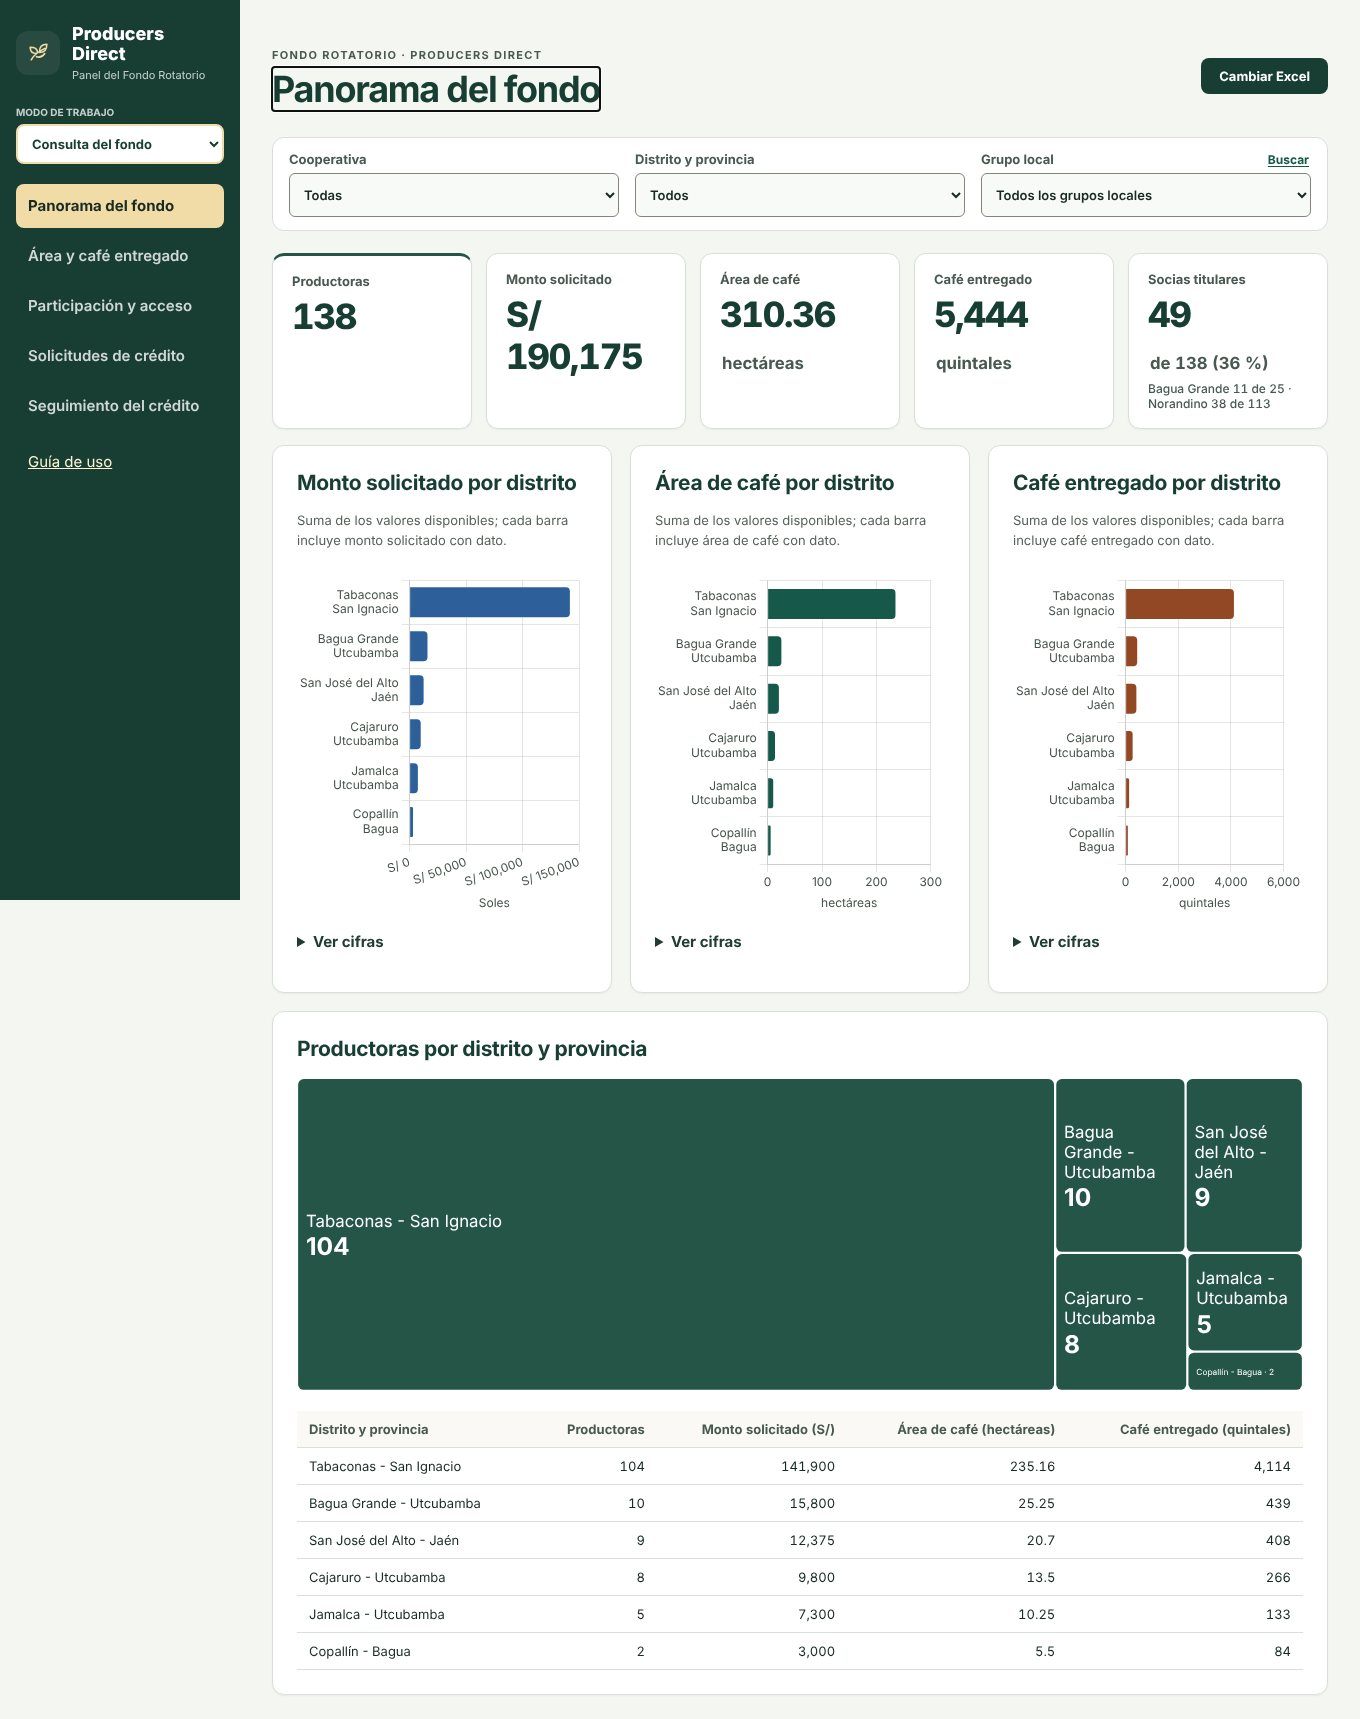
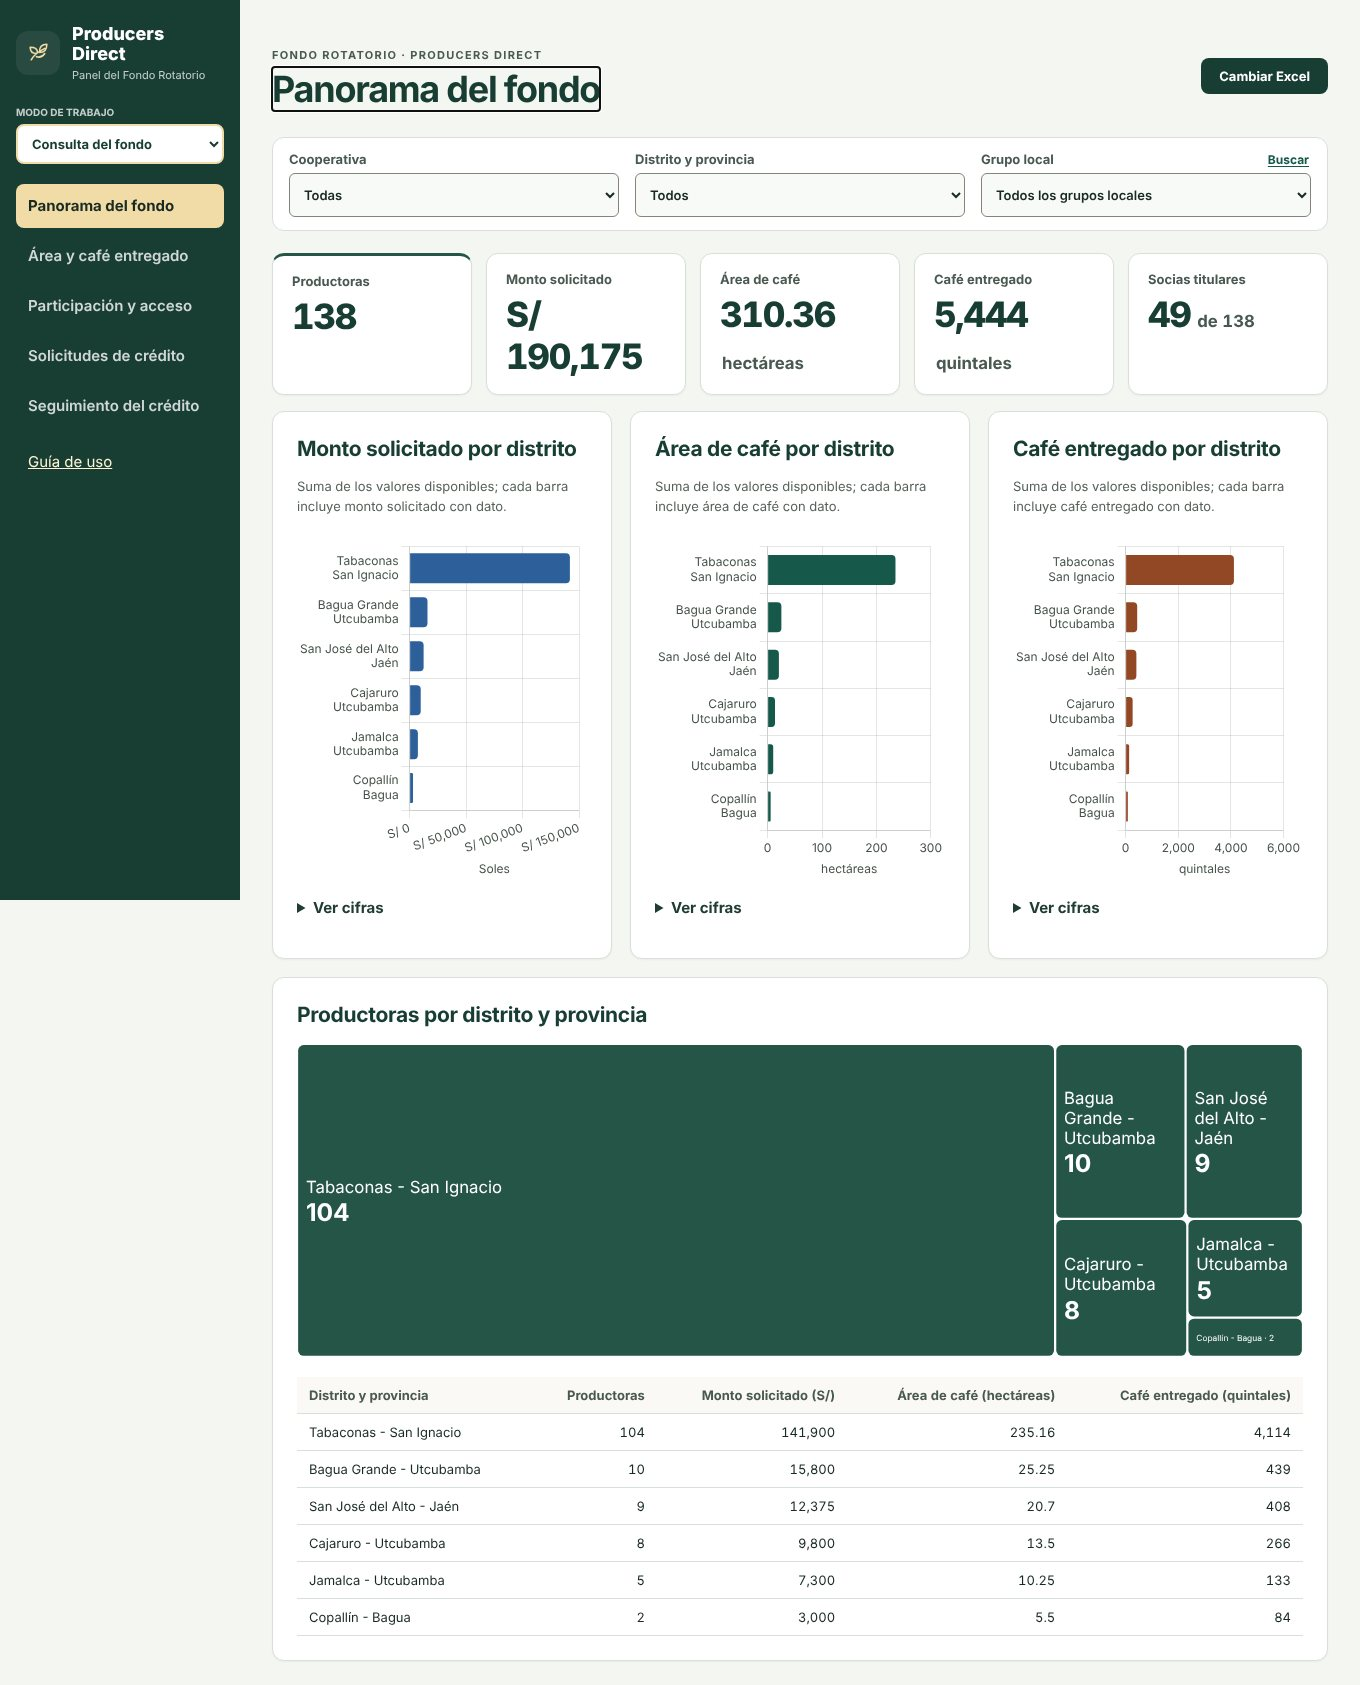
Socias titulares: la tarjeta del panorama muestra solo el conteo y el detalle pasa a un gráfico por cooperativa en Participación y acceso
La tarjeta queda como «49 de 138». El gráfico nuevo, «Quién es el socio titular de la cooperativa», usa barras al 100 % por cooperativa y en «Ver cifras» agrega una tabla por distrito y provincia. Se actualizan el informe de visualizaciones, el manual y las capturas.

diff --git a/docs/manual.html b/docs/manual.html
@@ -3,7 +3,7 @@
 <nav aria-label="Contenido"><a href="#inicio">Abrir Excel</a> · <a href="#consulta">Consultar el fondo</a> · <a href="#campo">Equipo de campo</a> · <a href="#datos">Equipo de datos</a> · <a href="#casos">Casos de uso</a> · <a href="#ayuda">Ayuda</a></nav>
 <section id="inicio"><h2>Abrir Excel</h2><p>Pulsa <strong>Abrir Excel</strong> y elige un archivo compatible. Se necesitan las columnas de código de productora y cooperativa. Si el archivo tiene otra hoja o encabezados distintos, selecciona sus columnas en el formulario. El <a href="diccionario.html">contrato de datos</a> detalla los campos, unidades y formatos.</p><p>Para practicar con datos ficticios, ejecuta <code>node scripts/crear_demo.cjs</code> y abre <code>data/processed/demo_ficticia.xlsx</code>. Al recargar la página tendrás que abrir el Excel otra vez.</p><figure><img src="capturas/inicio.jpg" alt="Pantalla inicial con el botón Abrir Excel"><figcaption>Pantalla de inicio.</figcaption></figure></section>
 <section id="consulta"><h2>Consulta del fondo</h2><p>Los filtros de cooperativa, distrito y grupo local se aplican a las cifras y gráficos de esta sección. <strong>Limpiar filtros</strong> vuelve a la carga completa.</p>
-<dl><dt>Panorama del fondo</dt><dd>Total de productoras, monto solicitado, área de café en hectáreas y café entregado en quintales. Si el Excel trae la pregunta sobre el socio titular, una quinta tarjeta indica cuántas productoras son ellas mismas socias titulares de la cooperativa, con el conteo por cooperativa. Los gráficos comparan estos totales por distrito y se actualizan con los filtros de arriba; al seleccionar un distrito, comparan sus grupos locales. «Ver cifras» muestra los datos y cuántas productoras aportan a cada total.</dd><dt>Área y café entregado</dt><dd>Mediana de quintales por productora y relación entre área de café y entregas. Un punto de la dispersión corresponde a una productora con ambos valores.</dd><dt>Participación y acceso</dt><dd>Comparación de celular, lectoescritura, contacto, capacitación y servicios del hogar. Cada porcentaje usa las respuestas disponibles a esa pregunta. Una productora puede elegir varios canales de contacto.</dd><dt>Solicitudes de crédito</dt><dd>Distribución de montos y destinos solicitados. «Ver cifras» abre los valores del gráfico. El monto solicitado no equivale al desembolso.</dd><dt>Seguimiento del crédito</dt><dd>Elige el año, añade un Excel por vez, revisa sus columnas y confirma la carga antes de añadir otro. Cada archivo se puede quitar por separado. El tablero explica el contrato en esa pantalla; consulta también <a href="seguimiento.html">Formato y reglas</a>.</dd></dl>
+<dl><dt>Panorama del fondo</dt><dd>Total de productoras, monto solicitado, área de café en hectáreas y café entregado en quintales. Si el Excel trae la pregunta sobre el socio titular, una quinta tarjeta indica cuántas productoras son ellas mismas socias titulares de la cooperativa. Los gráficos comparan estos totales por distrito y se actualizan con los filtros de arriba; al seleccionar un distrito, comparan sus grupos locales. «Ver cifras» muestra los datos y cuántas productoras aportan a cada total.</dd><dt>Área y café entregado</dt><dd>Mediana de quintales por productora y relación entre área de café y entregas. Un punto de la dispersión corresponde a una productora con ambos valores.</dd><dt>Participación y acceso</dt><dd>Comparación de celular, lectoescritura, quién es el socio titular de la cooperativa, contacto, capacitación y servicios del hogar. Cada porcentaje usa las respuestas disponibles a esa pregunta. Una productora puede elegir varios canales de contacto.</dd><dt>Solicitudes de crédito</dt><dd>Distribución de montos y destinos solicitados. «Ver cifras» abre los valores del gráfico. El monto solicitado no equivale al desembolso.</dd><dt>Seguimiento del crédito</dt><dd>Elige el año, añade un Excel por vez, revisa sus columnas y confirma la carga antes de añadir otro. Cada archivo se puede quitar por separado. El tablero explica el contrato en esa pantalla; consulta también <a href="seguimiento.html">Formato y reglas</a>.</dd></dl>
 <figure><img src="capturas/consulta.jpg" alt="Panorama con indicadores y resumen territorial"><figcaption>Panorama del fondo.</figcaption></figure>
 <figure><img loading="lazy" src="capturas/grafico.jpg" alt="Panorama con las cifras de cada gráfico desplegadas"><figcaption>Gráficos con «Ver cifras» abierto: los valores exactos que sustentan cada gráfico.</figcaption></figure>
 <figure><img loading="lazy" src="capturas/produccion.jpg" alt="Área y café entregado: mediana por cooperativa y relación entre área y café"><figcaption>Área y café entregado: mediana por cooperativa y relación entre área y café.</figcaption></figure>

diff --git a/js/charts.js b/js/charts.js
@@ -72,7 +72,7 @@ const PDCharts=(()=>{
   });
   el('overview-charts').hidden=!visible;
  }
- const NICE={SMARTPHONE:'Smartphone',BASICO:'Celular de teclas','SIN DATO':'Vacío','OTRO / REVISAR':'Otra respuesta',LECTURA:'Dificultad para leer',ESCRITURA:'Dificultad para escribir',AMBAS:'Dificultad para leer y escribir','FERTILIZACIÓN':'Fertilización','CRIANZA DE ANIMALES':'Crianza de animales','EMPRENDIMIENTO / OTROS':'Emprendimiento u otros'};
+ const NICE={SMARTPHONE:'Smartphone',BASICO:'Celular de teclas','SIN DATO':'Vacío','OTRO / REVISAR':'Otra respuesta',LECTURA:'Dificultad para leer',ESCRITURA:'Dificultad para escribir',AMBAS:'Dificultad para leer y escribir','FERTILIZACIÓN':'Fertilización','CRIANZA DE ANIMALES':'Crianza de animales','EMPRENDIMIENTO / OTROS':'Emprendimiento u otros',TITULAR:'Ella es la socia titular',CONYUGE:'Su cónyuge es el socio titular',PADRE:'Su padre es el socio titular'};
  const nice=(cat,key)=>cat==='NINGUNO'&&key==='phone'?'Sin celular':cat==='NINGUNA'?'Sin dificultad':NICE[cat]||prettyLabel(cat);
  function stacked(id,rows,key,coops,allRows){
   const visible=showChart(id,rows.some(r=>r[key]!=null)&&coops.some(c=>rows.filter(r=>r.coop===c&&r[key]!=null).length>=MIN_N));
@@ -129,6 +129,13 @@ const PDCharts=(()=>{
   }
   const activities=stacked('chart-activities',rows,'activity',coops,allRows);
   const phone=stacked('chart-phone',rows,'phone',coops,allRows),literacy=stacked('chart-literacy',rows,'literacy',coops,allRows);
+  const kinship=stacked('chart-kinship',rows,'kinship',coops,allRows);
+  if(kinship){
+   const zones=new Map();
+   rows.filter(r=>r.kinship!=null).forEach(r=>{const z=PDResumen.place(r)||'Ubicación vacía';if(!zones.has(z))zones.set(z,[]);zones.get(z).push(r);});
+   el('chart-kinship-table').insertAdjacentHTML('beforeend','<h4>Por distrito y provincia</h4>'+table(['Distrito y provincia','Productoras','Socias titulares'],
+    [...zones].sort((a,b)=>b[1].length-a[1].length||a[0].localeCompare(b[0],'es')).map(([z,g])=>[z,g.length,g.filter(r=>r.kinship==='TITULAR').length+' de '+g.length])));
+  }
   const frequent = new Map(D.commonAmounts(rows,{top:Infinity,minN:MIN_N}).map(g=>[g.coop,g]));
   const amountGroups=groups.map(([coop,group])=>[coop,group.map(r=>r.amount).filter(D.finite)]).filter(([,v])=>v.length>=MIN_N);
   const amounts=!!amountGroups.length;
@@ -164,7 +171,7 @@ const PDCharts=(()=>{
     labels.map((label,i)=>[label,...by.map(g=>g.values[i])]));
   }
   requestAnimationFrame(()=>Object.values(charts).forEach(c=>c.resize()));
-  return {production:coffee||yieldPlot,inclusion:phone||literacy,credit:activities||amounts};
+  return {production:coffee||yieldPlot,inclusion:phone||literacy||kinship,credit:activities||amounts};
  }
  return {render,resize:()=>Object.values(charts).forEach(c=>c.resize()),table,esc,fmt,charts};
 })();

diff --git a/index.html b/index.html
@@ -51,7 +51,7 @@
  </article>
  <article class="card-panel col-12"><h3>Destino de las solicitudes por cooperativa</h3><div class="chart-box"><canvas id="chart-activities" role="img" aria-label="Destino de las solicitudes por cooperativa"></canvas></div><details><summary>Ver cifras</summary><div id="chart-activities-table" class="table-scroll"></div></details></article>
 </div></section>
-<section class="page" id="inclusion-page"><div class="grid-12"><article class="card-panel col-6"><h3>Celular propio por cooperativa</h3><div class="chart-box"><canvas id="chart-phone" role="img" aria-label="Celular propio por cooperativa"></canvas></div><details><summary>Ver cifras</summary><div id="chart-phone-table" class="table-scroll"></div></details></article><article class="card-panel col-6"><h3>Dificultad para leer o escribir por cooperativa</h3><div class="chart-box"><canvas id="chart-literacy" role="img" aria-label="Dificultad para leer o escribir por cooperativa"></canvas></div><details><summary>Ver cifras</summary><div id="chart-literacy-table" class="table-scroll"></div></details></article></div><div id="cross-grid" class="grid-12"></div></section>
+<section class="page" id="inclusion-page"><div class="grid-12"><article class="card-panel col-6"><h3>Celular propio por cooperativa</h3><div class="chart-box"><canvas id="chart-phone" role="img" aria-label="Celular propio por cooperativa"></canvas></div><details><summary>Ver cifras</summary><div id="chart-phone-table" class="table-scroll"></div></details></article><article class="card-panel col-6"><h3>Dificultad para leer o escribir por cooperativa</h3><div class="chart-box"><canvas id="chart-literacy" role="img" aria-label="Dificultad para leer o escribir por cooperativa"></canvas></div><details><summary>Ver cifras</summary><div id="chart-literacy-table" class="table-scroll"></div></details></article><article class="card-panel col-6"><h3>Quién es el socio titular de la cooperativa</h3><div class="chart-box"><canvas id="chart-kinship" role="img" aria-label="Socio titular de la cooperativa por cooperativa"></canvas></div><details><summary>Ver cifras</summary><div id="chart-kinship-table" class="table-scroll"></div></details></article></div><div id="cross-grid" class="grid-12"></div></section>
 <section class="page" id="producer-page">
 <div class="card-panel producer-picker">
 <p id="producer-note" role="status" hidden></p>

diff --git a/js/app.js b/js/app.js
@@ -109,12 +109,7 @@ function applyFilters(reset = false) {
     const holders=kinRows.filter(isHolder).length;
     kinEl.textContent=holders;
     const unit=document.createElement('span');unit.className='kpi-unit';
-    unit.textContent=' de '+kinRows.length+' ('+Math.round(100*holders/kinRows.length)+' %)';kinEl.append(unit);
-    const byCoop=[...new Set(kinRows.map(r=>r.coop))].sort((a,b)=>groupLabel(a).localeCompare(groupLabel(b),'es'));
-    if(byCoop.length>1){
-      const split=document.createElement('div');split.className='kpi-coverage';
-      split.textContent=byCoop.map(c=>{const g=kinRows.filter(r=>r.coop===c);return groupLabel(c)+' '+g.filter(isHolder).length+' de '+g.length;}).join(' · ');kinEl.append(split);
-    }
+    unit.textContent=' de '+kinRows.length;kinEl.append(unit);
     if(kinRows.length<n){const note=document.createElement('div');note.className='kpi-coverage';note.textContent=kinRows.length+' de '+n+' con dato';kinEl.append(note);}
   }
   renderOverview(filteredData,available,total);

diff --git a/docs/INFORME_VISUALIZACIONES.md b/docs/INFORME_VISUALIZACIONES.md
@@ -9,7 +9,7 @@ Cada visual del tablero con su propósito, la forma de leerlo y la decisión que
 | Visual | Propósito | Cómo leerlo | Decisión que apoya |
 |---|---|---|---|
 | **Tarjetas: productoras, monto solicitado, área de café y café entregado** | Dimensionar el fondo: cuántas productoras hay, cuánto se solicitó y cuánta superficie y café se reportó. | Cuatro tarjetas con la suma de la selección actual. «29 de 30 con dato» indica cuántas productoras aportan al total; un dato faltante no cuenta como cero. | Decidir si el volumen justifica una visita o un ajuste del presupuesto; confirmar que un total sea comparable antes de citarlo. |
-| **Tarjeta: socias titulares** | Mostrar cuántas de las productoras son ellas mismas socias titulares de la cooperativa y cuántas participan por su cónyuge o su padre. | Una quinta tarjeta con «49 de 138 (36 %)» y, debajo, el mismo conteo por cooperativa. Se calcula sobre las productoras que respondieron la pregunta y se recalcula con los filtros. Si el Excel no trae la pregunta, la tarjeta no aparece. | Medir hasta qué punto el crédito llega a productoras que son socias de la cooperativa y decidir si conviene reforzar su participación como titulares. |
+| **Tarjeta: socias titulares** | Mostrar cuántas de las productoras son ellas mismas socias titulares de la cooperativa y cuántas participan por su cónyuge o su padre. | Una quinta tarjeta con «49 de 138»: las productoras que son ellas mismas socias titulares, sobre las que respondieron la pregunta. Se recalcula con los filtros. El detalle por cooperativa y por distrito está en el gráfico «Quién es el socio titular de la cooperativa», en Participación y acceso. Si el Excel no trae la pregunta, la tarjeta no aparece. | Medir hasta qué punto el crédito llega a productoras que son socias de la cooperativa y decidir si conviene reforzar su participación como titulares. |
 | **Monto solicitado por distrito** | Comparar dónde se concentra el dinero solicitado. | Una barra horizontal por distrito (nombre en dos líneas: distrito y provincia), en soles. «Ver cifras» abre la tabla con los valores exactos. | Priorizar los distritos con más solicitud al planificar la ruta de campo. |
 | **Área de café por distrito** | Comparar la superficie de café reportada por distrito. | Una barra por distrito en hectáreas; «Ver cifras» muestra cuántas productoras aportan al total. | Estimar el tamaño productivo de cada zona antes de definir apoyos técnicos. |
 | **Café entregado por distrito** | Comparar el café entregado a la cooperativa por distrito. | Una barra por distrito en quintales; «Ver cifras» da los valores exactos. | Identificar las zonas que más aportan a la cooperativa y las que necesitan acompañamiento. |
@@ -32,6 +32,7 @@ Cada visual del tablero con su propósito, la forma de leerlo y la decisión que
 |---|---|---|---|
 | **Celular propio por cooperativa** | Conocer qué tipo de celular tienen las productoras. | Barras apiladas al 100 %, una por cooperativa (sin celular, celular de teclas y smartphone; otras respuestas cuando existan). Solo porcentajes; las cantidades están en «Ver cifras». | Elegir el formato de los avisos: mensajes de aplicación solo si la mayoría tiene smartphone. |
 | **Dificultad para leer o escribir por cooperativa** | Saber qué parte de las productoras tiene dificultad de lectoescritura. | Barras apiladas al 100 % por cooperativa (sin dificultad, dificultad de lectura, de escritura o de ambas), con porcentajes. | Decidir si la comunicación debe ser escrita o hablada (llamadas, audios o visitas). |
+| **Quién es el socio titular de la cooperativa** | Saber si la productora es ella misma la socia titular o si el socio titular es su cónyuge o su padre. | Barras apiladas al 100 % por cooperativa (ella es la socia titular, su cónyuge es el socio titular, su padre es el socio titular). Solo porcentajes; «Ver cifras» trae las cantidades por cooperativa y una tabla por distrito y provincia. | Medir hasta qué punto el crédito llega a productoras que son socias de la cooperativa y decidir si conviene reforzar su participación como titulares. |
 | **Canales preferidos de contacto** | Saber por qué canal prefieren ser contactadas. | Barras horizontales por canal (llamadas, WhatsApp, SMS), una por cooperativa. Una productora puede elegir varios canales, por eso los porcentajes no suman 100 %. | Elegir el canal principal y si el SMS aporta cobertura adicional. |
 | **Capacitación reportada** | Medir qué parte de las productoras dice haber participado en capacitaciones. | Un medidor por cooperativa con el porcentaje que respondió «Sí». Las cantidades están en «Ver cifras». | Decidir dónde reforzar las capacitaciones. |
 | **Educación y servicios del hogar** | Comparar nivel educativo, internet y desagüe entre cooperativas. | Barras por cooperativa con el porcentaje que cursó secundaria o más, tiene internet en casa y tiene desagüe. | Decidir si el seguimiento puede apoyarse en medios digitales o requiere pasos presenciales. |
